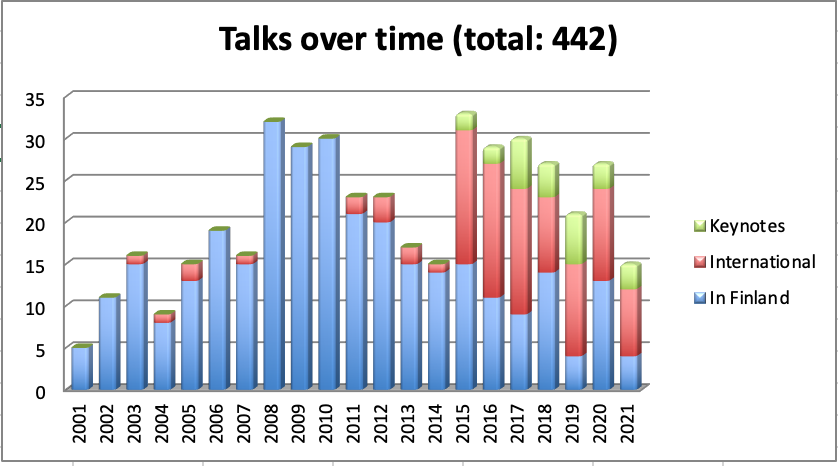
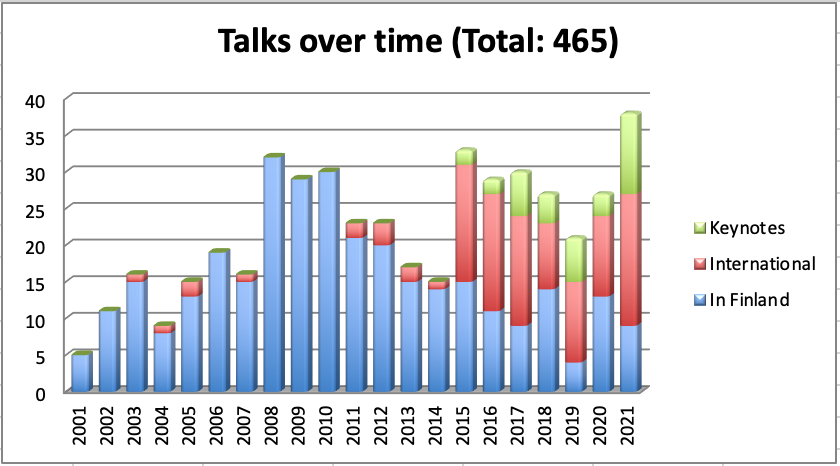
Updating talks

diff --git a/myTalks.html b/myTalks.html
@@ -61,18 +61,18 @@
   <h2>UPCOMING CONFERENCES & MEETUPS & WEBINARS & TRAININGS</h2>
 
   <ul>
-    <li>HUSTEF Conference, October 18-21, 2021, Online.
-      <br>KEYNOTE: Hands-off Exploratory Testing - How to Manage Test at Scale</li>
-    <li>TestFlix, October 23-24, 2021, Online.
-      <br>TALK: Better Ideas at Test Design</li>
-    <li>Ministry of Testing Sarajevo Meetup, October 27th, Online.
-      <br>TALK: How to Get Better at Exploratory Testing</li>
-    <li>A Customer Organization's Event, October 28th, Online.
-      <br>TALK: Automationist's Gambit</li>
     <li>TestJSConf, November 18-19, 2021, Online.
       <br>TALK: Go Find What We May Have Missed! </li>
+    <li>MoT Cork, November 18th, 2021, Online
+      <br>Exploring Realities of Testing - Theory to Practice</li>
+    <li>A Customer Organization's Event, November 24th, 2021, Online.
+      <br>Contemporary Exploratory Testing</li>
     <li>A Customer Organization's Event, November 26th, 2021, Online.
       <br>TALK: It's More Complicated than THAT</li>
+    <li>A Customer Organization's Event, December 17th, 2021, Online.
+      <br>TALK: Contemporary Exploratory Testing</li>
+    <li>A Customer Organization's Event, January 10th, 2022, Online.
+      <br>TALK: Increase Awareness on Testing</li>
   </ul>
 
 </p>I'm taking a break from traveling to conferences after I reached 400 sessions Dec 13th 2019,
@@ -93,7 +93,7 @@ happy to appear in podcasts, webinars, remote conferences and anything that requ
 <div style="text-align: left;">
 
 <i>The Automationist's Gambit</i><br />
-&nbsp; Speaker at a customer organization (28.10.2021), Online<br />
+&nbsp; Speaker at QA Point Meetup (28.10.2021), Online<br />
 &nbsp; Keynote Speaker at EuroSTAR (30.9.2021), Online<br />
 &nbsp; Keynote Speaker at a customer organization (29.9.2021), Online<br />
 <br />
@@ -119,12 +119,16 @@ happy to appear in podcasts, webinars, remote conferences and anything that requ
 &nbsp; Keynote Speaker at Appium Lite Conference (2.9.2021), Online<br />
 <br />
 
+<i>Exploring Realities of Testing - Theory to Practice</i><br />
+&nbsp; Speaker at a MoT Cork Meetup (18.11.2021), Online<br />
+<br />
+
 <i>It's More Complicated than THAT</i><br />
 &nbsp; Speaker at a customer organization (26.11.2021), Online<br />
 <br />
 
 <i>How to Get Better at Exploratory Testing</i><br />
-&nbsp; Speaker at a customer organization (27.10.2021), Online<br />
+&nbsp; Speaker at a MoT Sarajevo Meetup (27.10.2021), Online<br />
 <br />
 
 <i>Go Find What We May Have Missed</i><br />
@@ -134,6 +138,9 @@ happy to appear in podcasts, webinars, remote conferences and anything that requ
 <i>A Year in Test Automation</i><br />
 &nbsp; Speaker at a QAstiontime meetup (15.9.2021), Online<br />
 <br />
+
+<i>Increase Awareness on Testing</i><br />
+&nbsp; Speaker at a customer organization  (10.1.2022), Online<br />
 
 <i>Setting Up Website Hosted on Github</i><br />
 &nbsp; Trainer at Mimmit Koodaa training (14.6.2021), Online<br />
@@ -153,6 +160,8 @@ happy to appear in podcasts, webinars, remote conferences and anything that requ
 <br />
 
 <i>Contemporary Exploratory Testing</i><br />
+&nbsp; Speaker at a customer organization  (17.12.2021), Online<br />
+&nbsp; Speaker at a customer organization  (24.11.2021), Online<br />
 &nbsp; Speaker at Breakpoint (24.3.2021), Online<br />
 &nbsp; Keynote Speaker at Selenium Summit (7.2.2021), Online<br />
 <br />
